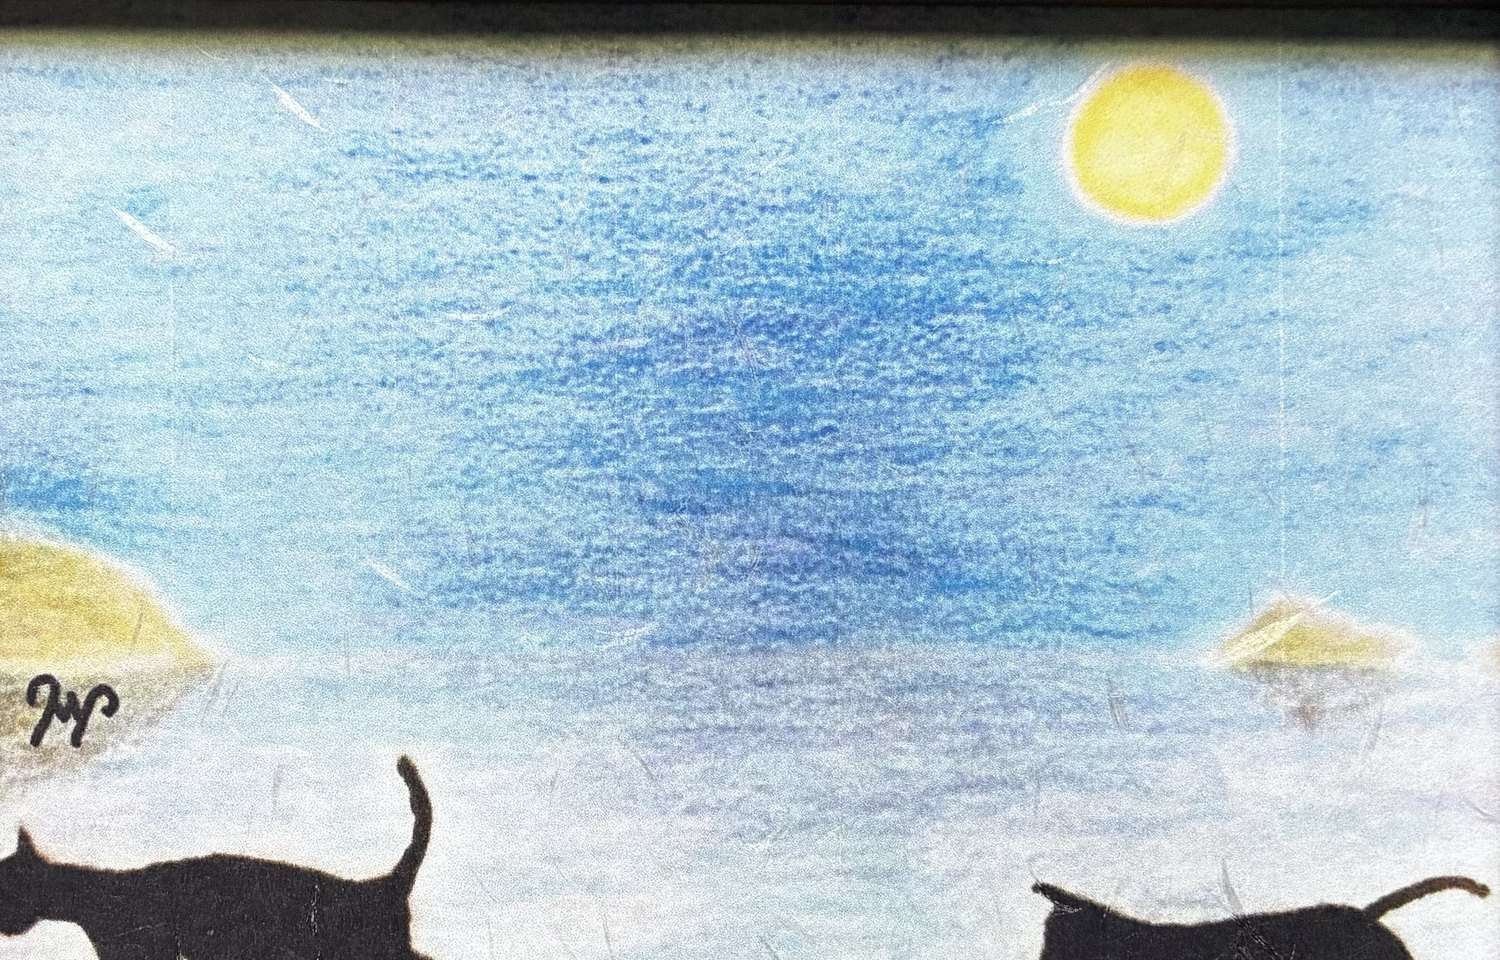
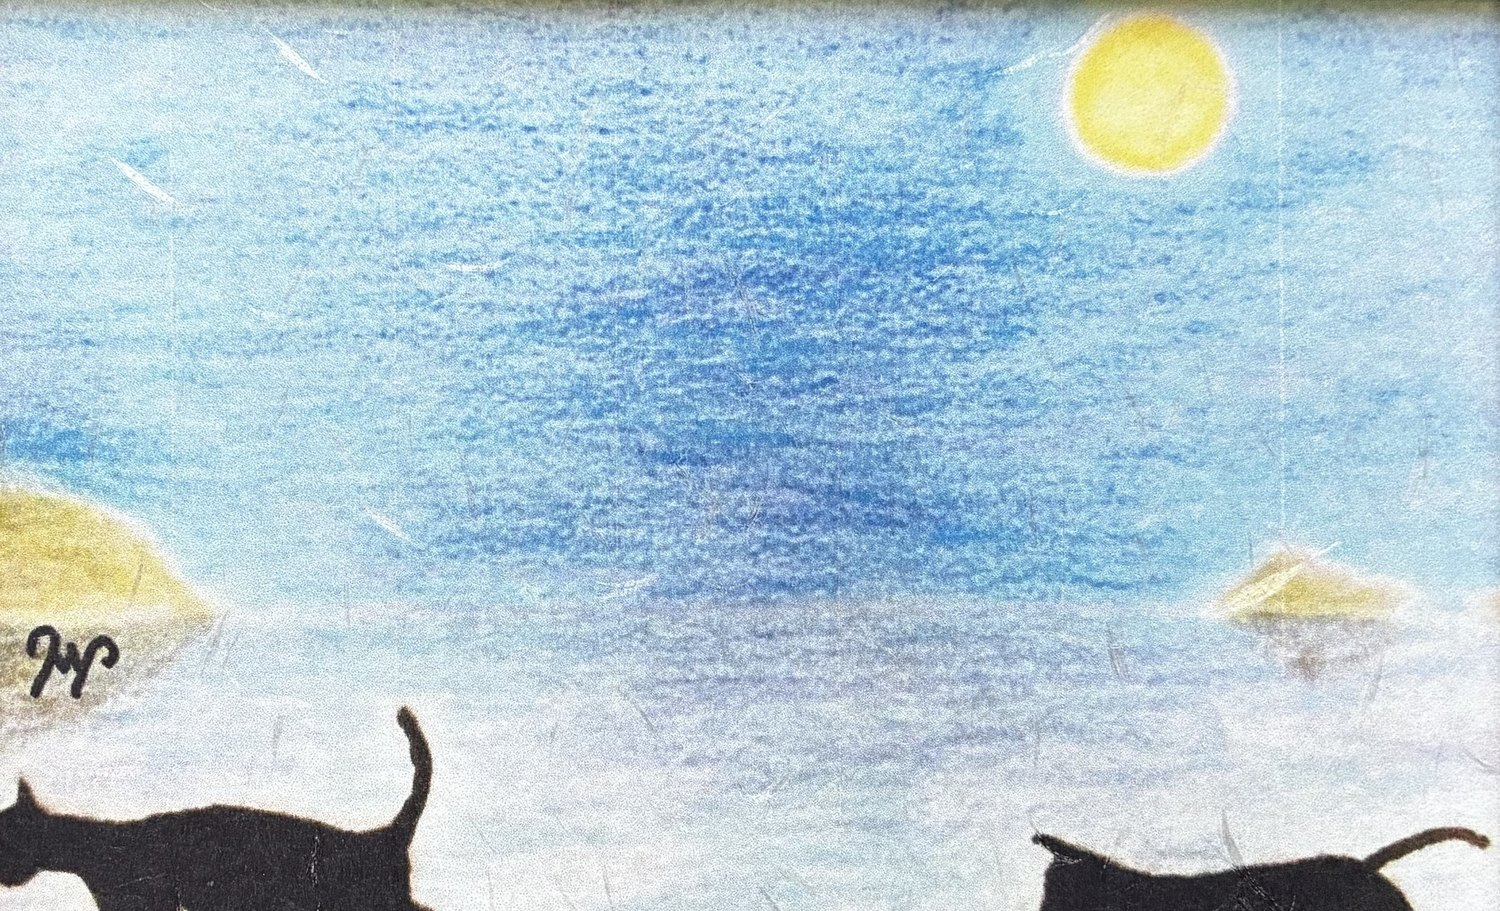
残っていた額縁の影を9点から除去

diff --git a/index.html b/index.html
@@ -540,7 +540,7 @@ footer {
         </figcaption>
       </figure>
       <figure class="card card--yoko" data-code="CAT-02">
-        <button type="button" class="card__img" data-full="images/CAT-02.jpg" data-fulltitle="にゃにか？" data-code="CAT-02" aria-label="にゃにか？ を大きく見る"><img src="images/CAT-02.jpg" alt="猫の絵「にゃにか？」" loading="lazy" width="1500" height="1051"></button>
+        <button type="button" class="card__img" data-full="images/CAT-02.jpg" data-fulltitle="にゃにか？" data-code="CAT-02" aria-label="にゃにか？ を大きく見る"><img src="images/CAT-02.jpg" alt="猫の絵「にゃにか？」" loading="lazy" width="1500" height="977"></button>
         <figcaption class="card__body">
           <p class="card__title">にゃにか？</p>
           <div class="card__meta">
@@ -572,7 +572,7 @@ footer {
         </figcaption>
       </figure>
       <figure class="card card--yoko" data-code="CAT-04">
-        <button type="button" class="card__img" data-full="images/CAT-04.jpg" data-fulltitle="アメ猫" data-code="CAT-04" aria-label="アメ猫 を大きく見る"><img src="images/CAT-04.jpg" alt="猫の絵「アメ猫」" loading="lazy" width="1500" height="1043"></button>
+        <button type="button" class="card__img" data-full="images/CAT-04.jpg" data-fulltitle="アメ猫" data-code="CAT-04" aria-label="アメ猫 を大きく見る"><img src="images/CAT-04.jpg" alt="猫の絵「アメ猫」" loading="lazy" width="1500" height="955"></button>
         <figcaption class="card__body">
           <p class="card__title">アメ猫</p>
           <div class="card__meta">
@@ -588,7 +588,7 @@ footer {
         </figcaption>
       </figure>
       <figure class="card card--yoko" data-code="CAT-05">
-        <button type="button" class="card__img" data-full="images/CAT-05.jpg" data-fulltitle="居眠り猫ちゃん" data-code="CAT-05" aria-label="居眠り猫ちゃん を大きく見る"><img src="images/CAT-05.jpg" alt="猫の絵「居眠り猫ちゃん」" loading="lazy" width="1500" height="1106"></button>
+        <button type="button" class="card__img" data-full="images/CAT-05.jpg" data-fulltitle="居眠り猫ちゃん" data-code="CAT-05" aria-label="居眠り猫ちゃん を大きく見る"><img src="images/CAT-05.jpg" alt="猫の絵「居眠り猫ちゃん」" loading="lazy" width="1500" height="1017"></button>
         <figcaption class="card__body">
           <p class="card__title">居眠り猫ちゃん</p>
           <div class="card__meta">
@@ -604,7 +604,7 @@ footer {
         </figcaption>
       </figure>
       <figure class="card card--yoko" data-code="CAT-06">
-        <button type="button" class="card__img" data-full="images/CAT-06.jpg" data-fulltitle="鈴木にゃいおん" data-code="CAT-06" aria-label="鈴木にゃいおん を大きく見る"><img src="images/CAT-06.jpg" alt="猫の絵「鈴木にゃいおん」" loading="lazy" width="1500" height="1050"></button>
+        <button type="button" class="card__img" data-full="images/CAT-06.jpg" data-fulltitle="鈴木にゃいおん" data-code="CAT-06" aria-label="鈴木にゃいおん を大きく見る"><img src="images/CAT-06.jpg" alt="猫の絵「鈴木にゃいおん」" loading="lazy" width="1500" height="1060"></button>
         <figcaption class="card__body">
           <p class="card__title">鈴木にゃいおん</p>
           <div class="card__meta">
@@ -620,7 +620,7 @@ footer {
         </figcaption>
       </figure>
       <figure class="card card--yoko" data-code="CAT-07">
-        <button type="button" class="card__img" data-full="images/CAT-07.jpg" data-fulltitle="ごろりんこ" data-code="CAT-07" aria-label="ごろりんこ を大きく見る"><img src="images/CAT-07.jpg" alt="猫の絵「ごろりんこ」" loading="lazy" width="1500" height="1053"></button>
+        <button type="button" class="card__img" data-full="images/CAT-07.jpg" data-fulltitle="ごろりんこ" data-code="CAT-07" aria-label="ごろりんこ を大きく見る"><img src="images/CAT-07.jpg" alt="猫の絵「ごろりんこ」" loading="lazy" width="1500" height="987"></button>
         <figcaption class="card__body">
           <p class="card__title">ごろりんこ</p>
           <div class="card__meta">
@@ -652,7 +652,7 @@ footer {
         </figcaption>
       </figure>
       <figure class="card card--yoko" data-code="CAT-09">
-        <button type="button" class="card__img" data-full="images/CAT-09.jpg" data-fulltitle="夜のお散歩" data-code="CAT-09" aria-label="夜のお散歩 を大きく見る"><img src="images/CAT-09.jpg" alt="猫の絵「夜のお散歩」" loading="lazy" width="1500" height="960"></button>
+        <button type="button" class="card__img" data-full="images/CAT-09.jpg" data-fulltitle="夜のお散歩" data-code="CAT-09" aria-label="夜のお散歩 を大きく見る"><img src="images/CAT-09.jpg" alt="猫の絵「夜のお散歩」" loading="lazy" width="1500" height="911"></button>
         <figcaption class="card__body">
           <p class="card__title">夜のお散歩</p>
           <div class="card__meta">
@@ -748,7 +748,7 @@ footer {
         </figcaption>
       </figure>
       <figure class="card card--tate" data-code="CAT-15">
-        <button type="button" class="card__img" data-full="images/CAT-15.jpg" data-fulltitle="仲良し猫ちゃん" data-code="CAT-15" aria-label="仲良し猫ちゃん を大きく見る"><img src="images/CAT-15.jpg" alt="猫の絵「仲良し猫ちゃん」" loading="lazy" width="936" height="1500"></button>
+        <button type="button" class="card__img" data-full="images/CAT-15.jpg" data-fulltitle="仲良し猫ちゃん" data-code="CAT-15" aria-label="仲良し猫ちゃん を大きく見る"><img src="images/CAT-15.jpg" alt="猫の絵「仲良し猫ちゃん」" loading="lazy" width="930" height="1500"></button>
         <figcaption class="card__body">
           <p class="card__title">仲良し猫ちゃん</p>
           <div class="card__meta">
@@ -780,7 +780,7 @@ footer {
         </figcaption>
       </figure>
       <figure class="card card--tate" data-code="CAT-17">
-        <button type="button" class="card__img" data-full="images/CAT-17.jpg" data-fulltitle="ここにいるよ" data-code="CAT-17" aria-label="ここにいるよ を大きく見る"><img src="images/CAT-17.jpg" alt="猫の絵「ここにいるよ」" loading="lazy" width="1063" height="1500"></button>
+        <button type="button" class="card__img" data-full="images/CAT-17.jpg" data-fulltitle="ここにいるよ" data-code="CAT-17" aria-label="ここにいるよ を大きく見る"><img src="images/CAT-17.jpg" alt="猫の絵「ここにいるよ」" loading="lazy" width="1136" height="1500"></button>
         <figcaption class="card__body">
           <p class="card__title">ここにいるよ</p>
           <div class="card__meta">
@@ -828,7 +828,7 @@ footer {
         </figcaption>
       </figure>
       <figure class="card card--tate" data-code="CAT-20">
-        <button type="button" class="card__img" data-full="images/CAT-20.jpg" data-fulltitle="猫と風船" data-code="CAT-20" aria-label="猫と風船 を大きく見る"><img src="images/CAT-20.jpg" alt="猫の絵「猫と風船」" loading="lazy" width="1060" height="1500"></button>
+        <button type="button" class="card__img" data-full="images/CAT-20.jpg" data-fulltitle="猫と風船" data-code="CAT-20" aria-label="猫と風船 を大きく見る"><img src="images/CAT-20.jpg" alt="猫の絵「猫と風船」" loading="lazy" width="1037" height="1500"></button>
         <figcaption class="card__body">
           <p class="card__title">猫と風船</p>
           <div class="card__meta">
